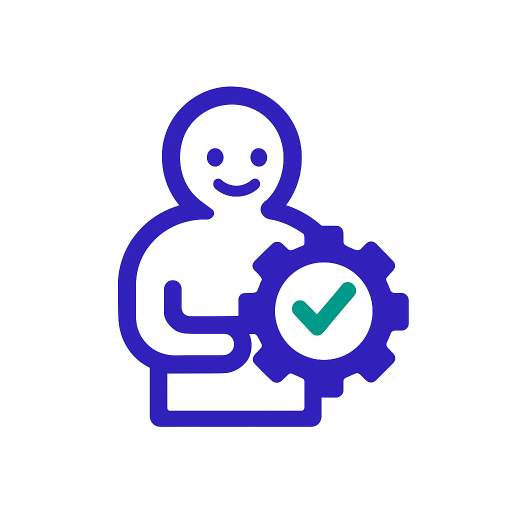
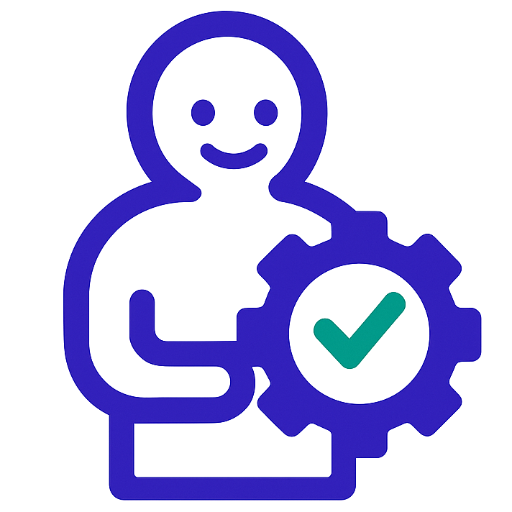
fix: image will be from each apps from now

Changed region(s): [[0.125, 0.0, 0.9688, 1.0]]

diff --git a/constants.ts b/constants.ts
@@ -23,7 +23,7 @@ export const APPS: AppDefinition[] = [
     description: "Find your next best web novel for your picking.",
     longDescription:
       "Discover your next favorite read with Novel Finder Pro. Our advanced algorithm helps you find hidden gems and popular web novels tailored to your unique taste.",
-    iconUrl: BASE_URL + "/dramaverse/pwa-512x512.png",
+    iconUrl: BASE_URL + "/novel-finder-pro/pwa-512x512.png",
     href: "/novel-finder-pro/",
   },
   {
@@ -32,7 +32,7 @@ export const APPS: AppDefinition[] = [
     description: "Automatically tag your uploaded epub novels.",
     longDescription:
       "Organize your digital library effortlessly. Upload your epub files and let our powerful algorithm analyze the content to assign relevant and accurate tags automatically.",
-    iconUrl: BASE_URL + "/dramaverse/pwa-512x512.png",
+    iconUrl: BASE_URL + "/epub-tagger/pwa-512x512.png",
     href: "/epub-tagger/",
   },
   {
@@ -41,7 +41,7 @@ export const APPS: AppDefinition[] = [
     description: "Search for keywords within your epub files.",
     longDescription:
       "Quickly locate specific information within your epub collection. Upload a book and search for keywords or phrases to find exactly what you're looking for in seconds.",
-    iconUrl: BASE_URL + "/dramaverse/pwa-512x512.png",
+    iconUrl: BASE_URL + "/epub-search/pwa-512x512.png",
     href: "/epub-search/",
   },
 ];

diff --git a/config.ts b/config.ts
@@ -8,4 +8,4 @@ import { BASE_URL } from "./constants";
  * The path to the main brand icon used in the header and as the favicon.
  * It's defined here to be easily configurable.
  */
-export const BRAND_ICON_URL = BASE_URL + '/launchpad/favicon.png';
+export const BRAND_ICON_URL = BASE_URL + '/launchpad/pwa-512x512.png';
